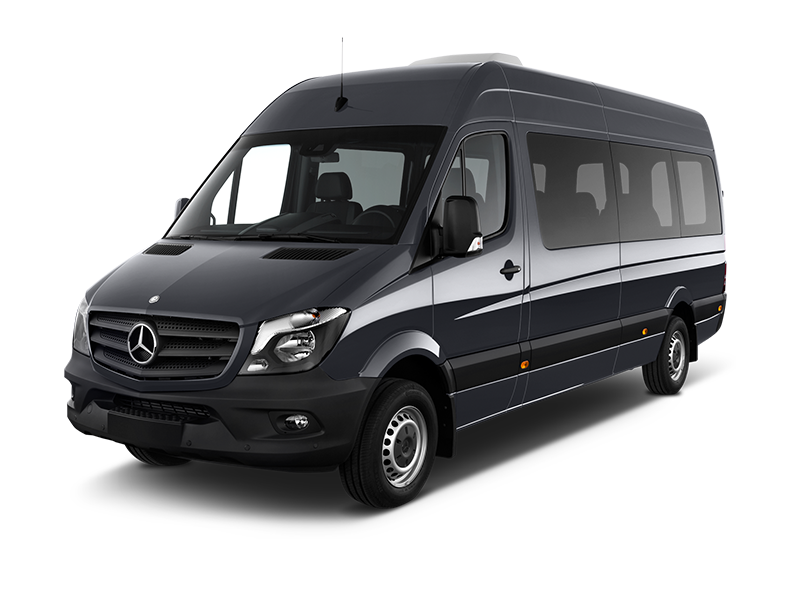
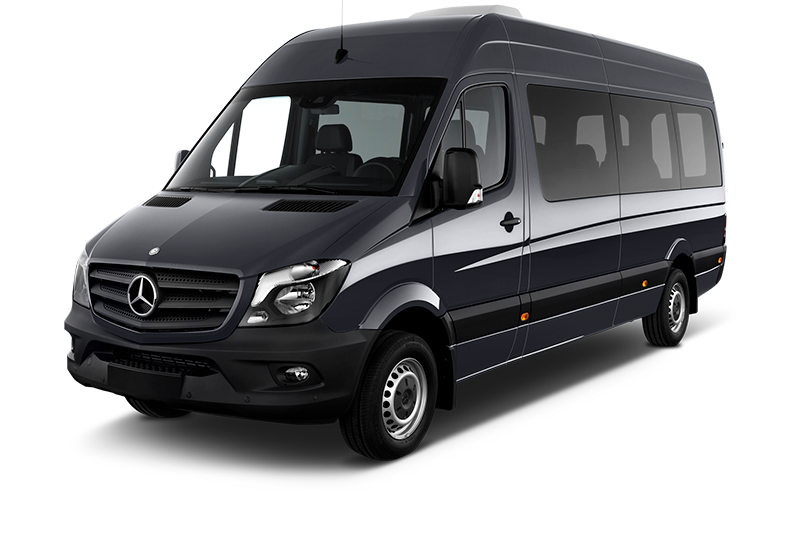
CSS

diff --git a/index.html b/index.html
@@ -58,7 +58,7 @@
             <h3><b>Call <a href="tel:208-608-0977">208.608.0977</a> now.</b></h3>
           </div>
         </div>
-        <div class="col-lg-7 my-0 py-0 mx-auto">
+        <div class="col-lg-7 mx-auto" style="padding-top: 0px; margin-top: 0px;">
           <img src="img/vanstock.png" class="img-fluid" alt="" style="height: 100%; object-fit: contain;">
         </div>
       </div>
